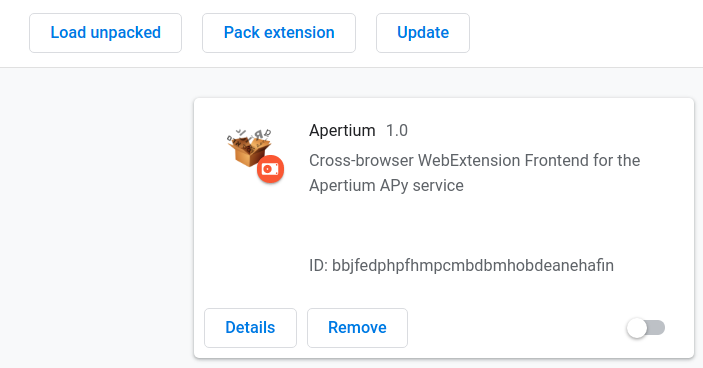
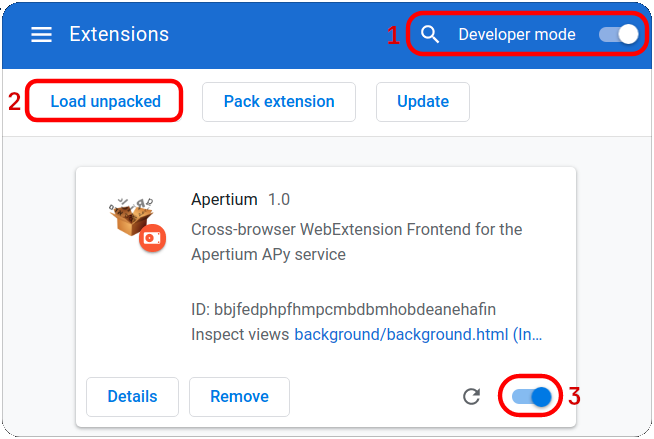
replaced image in chrome installation

diff --git a/README.md b/README.md
@@ -16,14 +16,12 @@
 ## Installation
 
 ### Chrome and other Chromium-based Browsers
+
+<img align="right" width="400" src="https://github.com/apertium/apertium-webext/blob/main/misc/chrome-extension-select.png">
+
 1. Navigate to `chrome://extensions` in your browser. You can also access this page by clicking on the Chrome menu on the top right side of the Omnibox (three vertical dots), hovering over More Tools and selecting Extensions.
 2. Check the box next to Developer Mode.
- 
-![chrome-extension-select](https://github.com/apertium/apertium-webext/blob/main/misc/chrome-extension-select.png)
-
-![location-select](https://github.com/apertium/apertium-webext/blob/main/misc/location-in-folder.png)
-
-3. Click Load Unpacked Extension and select the src directory within apertium-webext.
+3. Click Load Unpacked Extension and select the `apertium-webext/src/` directory within apertium-webext.
 
 And you're done! you can use the extension to translate within the pop-up or hover on words as you like.
 
